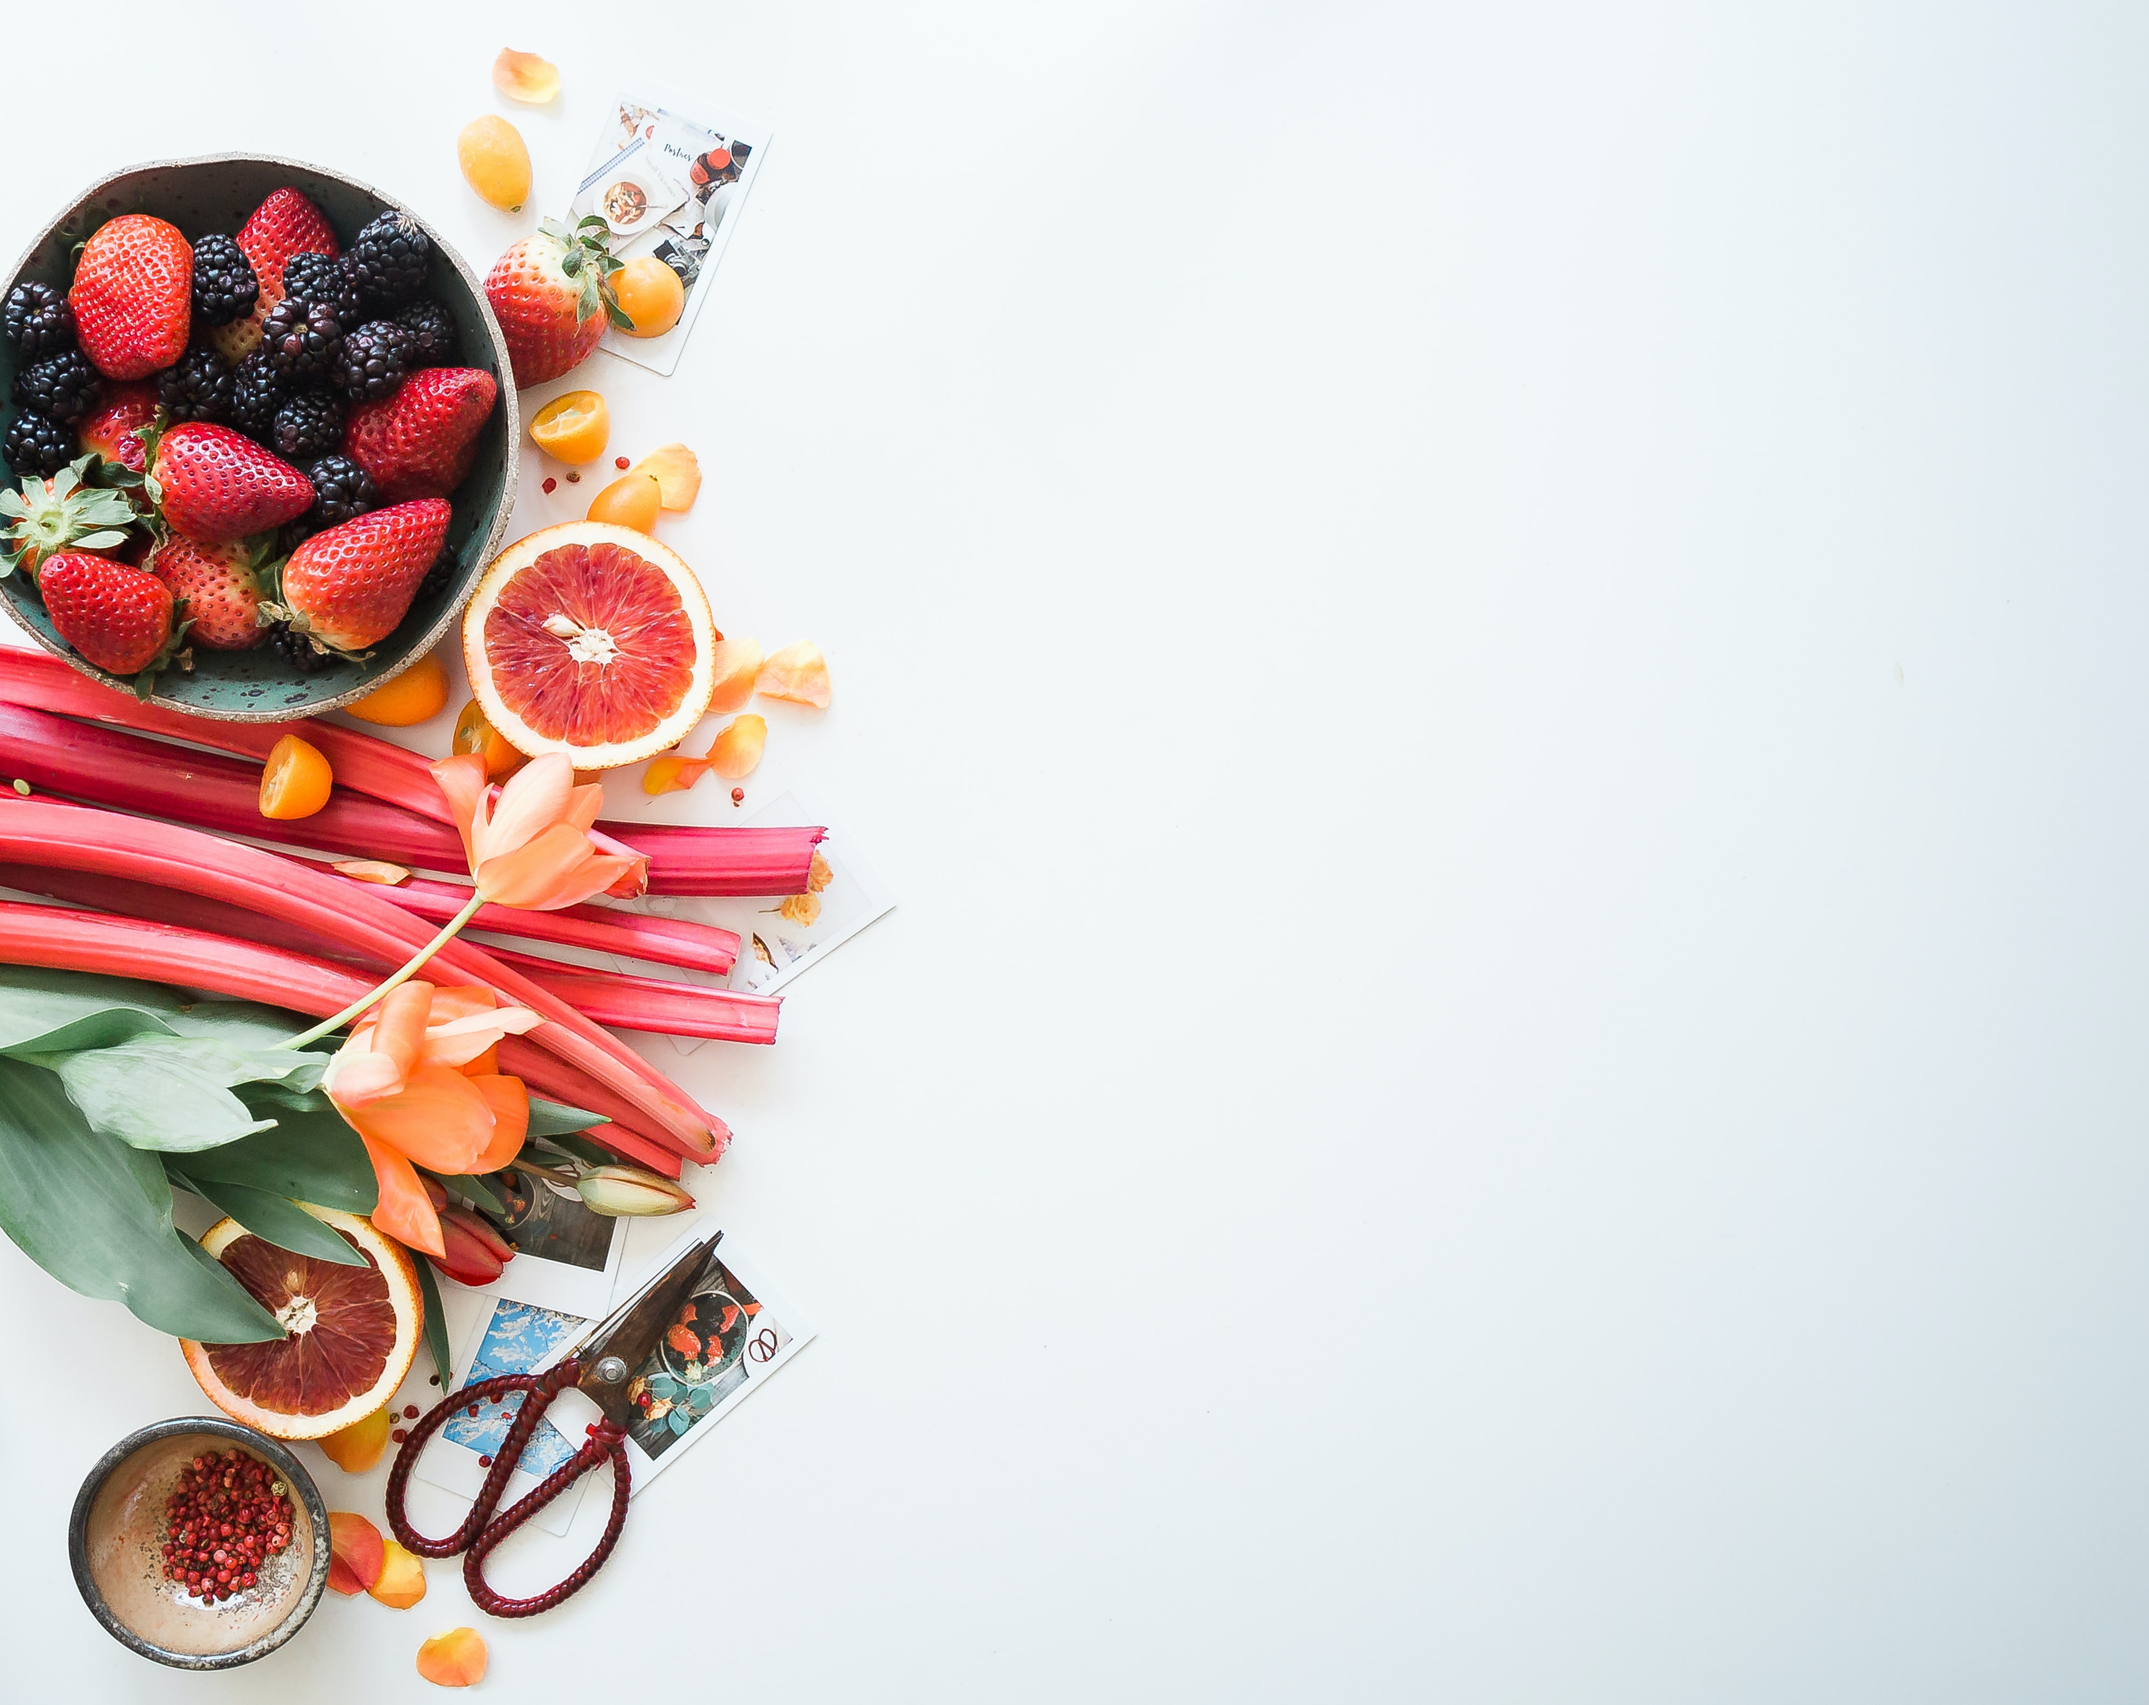
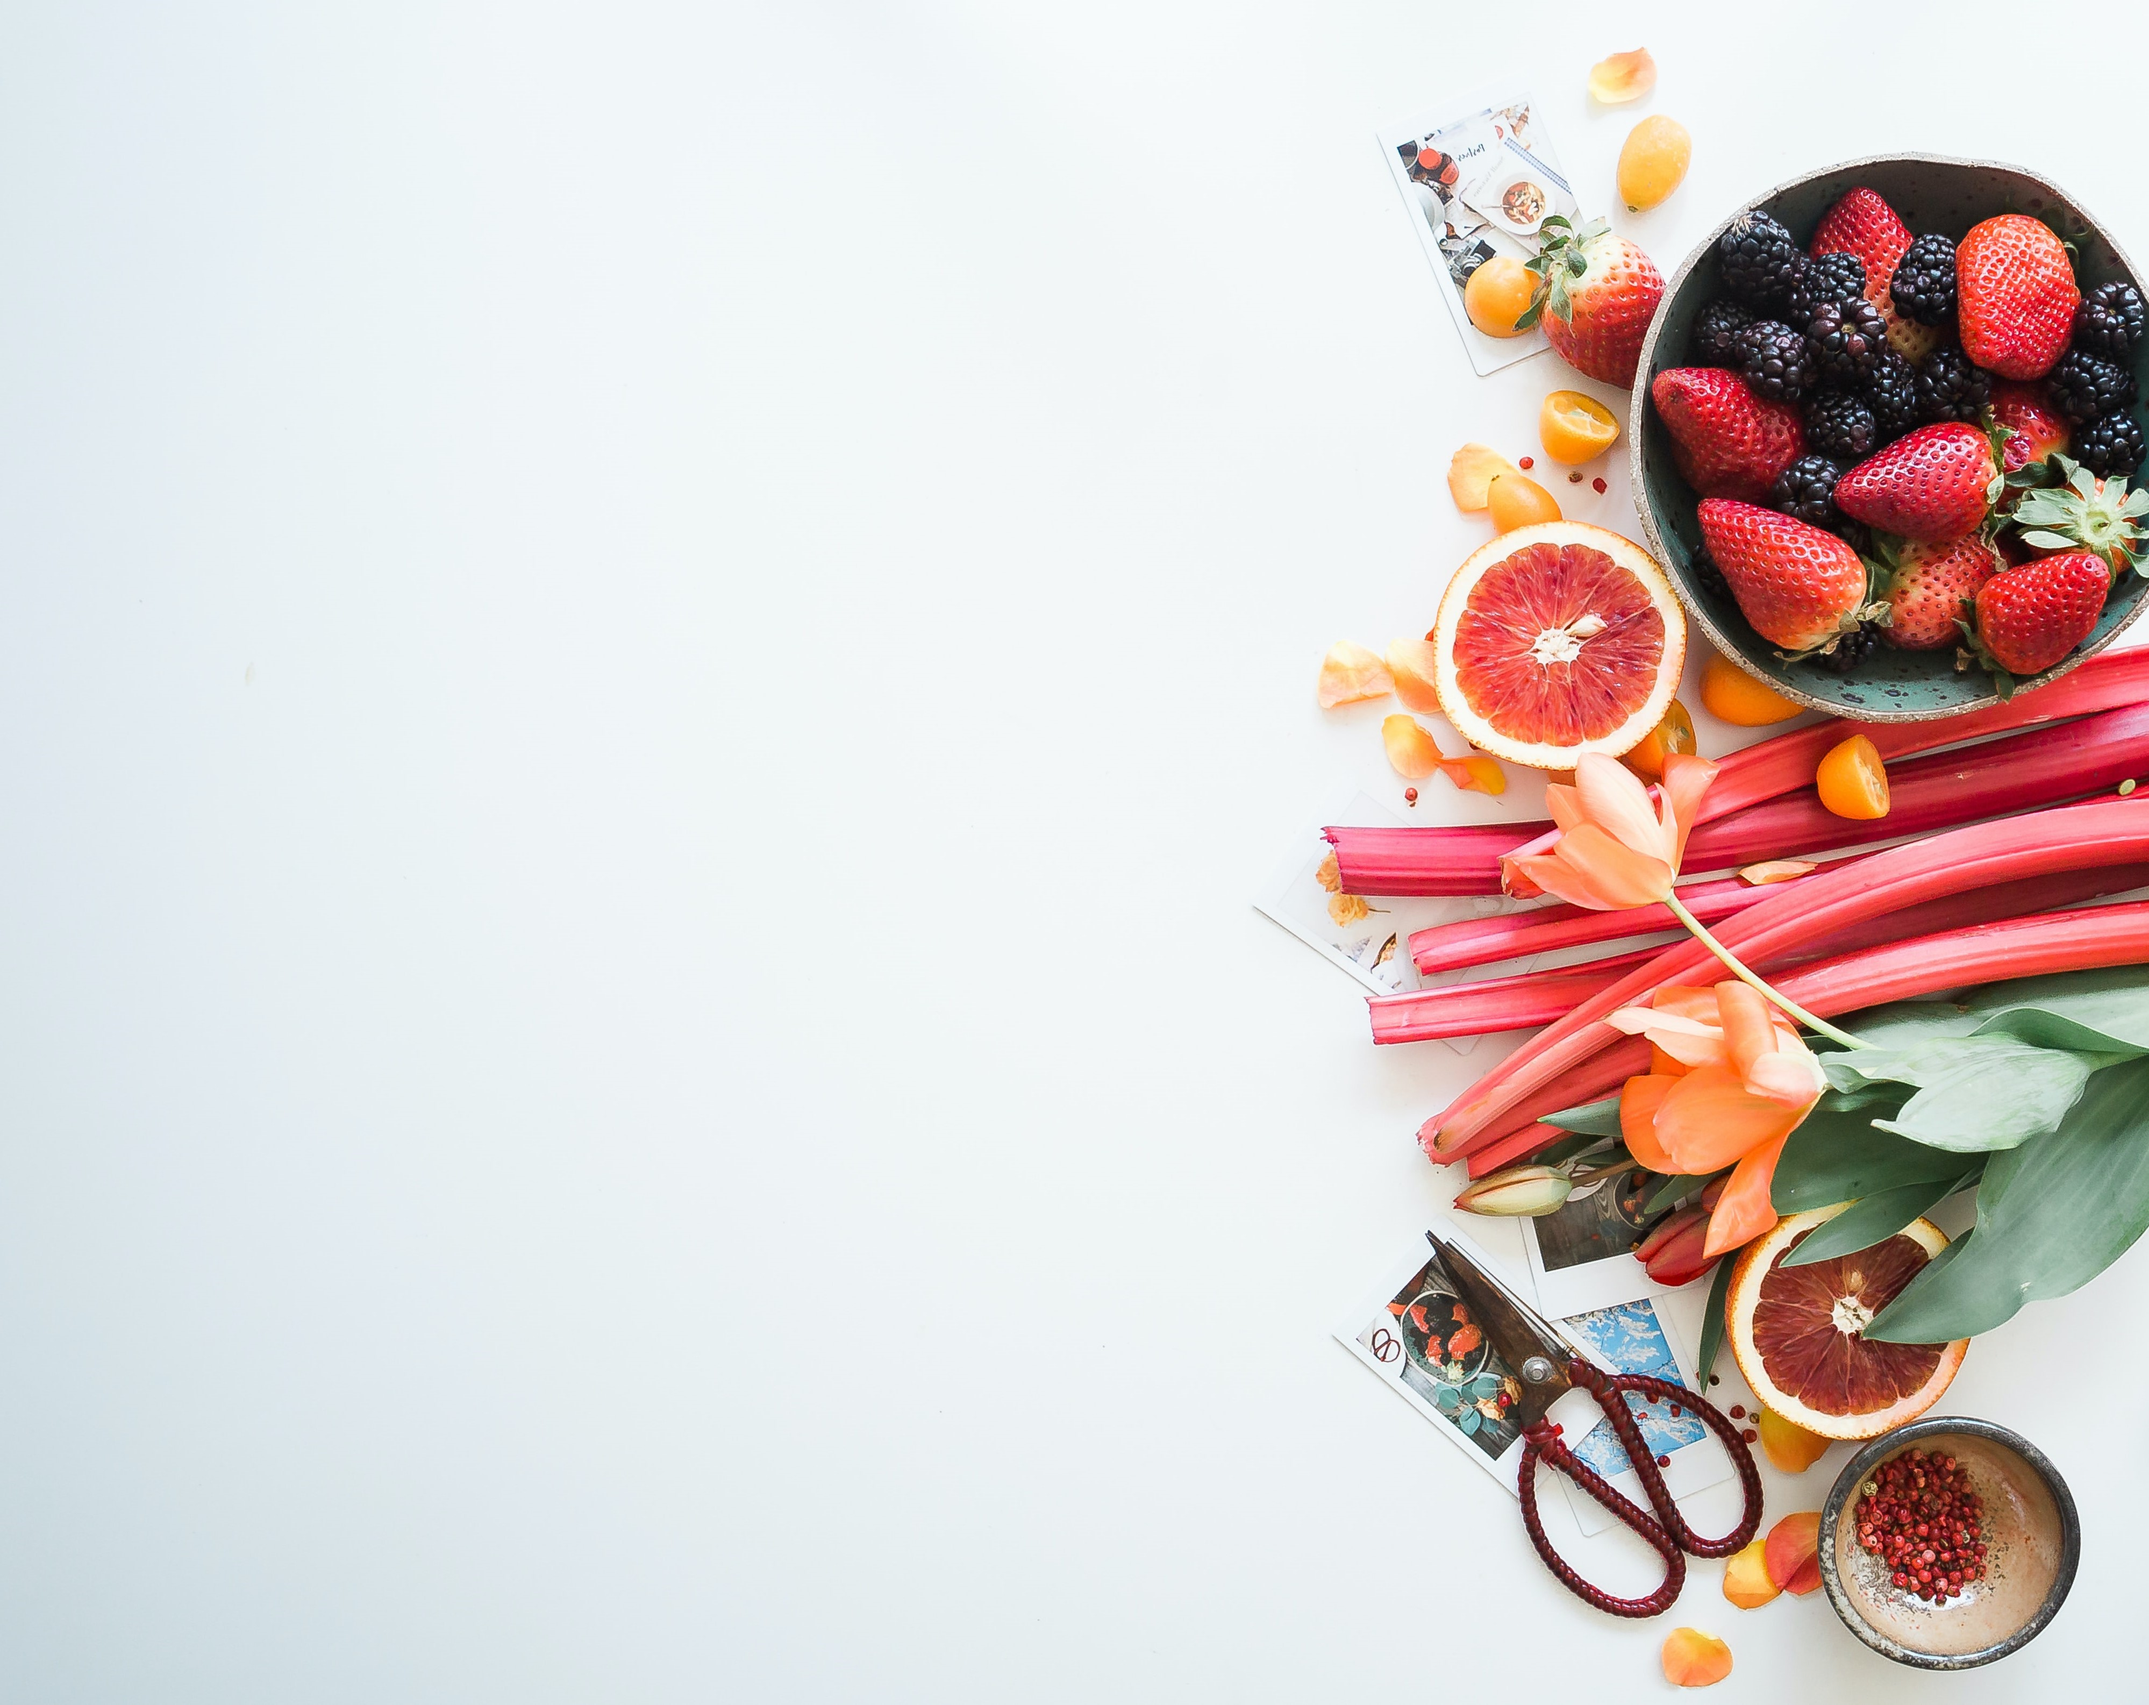
added showcase

diff --git a/index.html b/index.html
@@ -9,6 +9,12 @@
     <link href="https://fonts.googleapis.com/css2?family=Poppins&display=swap"
     rel="stylesheet
     <link rel="shortcut icon" href="img/logo.png" type="image/x-icon" />
+    <link rel="preconnect" href="https://fonts.googleapis.com" />
+    <link rel="preconnect" href="https://fonts.gstatic.com" crossorigin />
+    <link
+      href="https://fonts.googleapis.com/css2?family=Raleway:wght@100&display=swap"
+      rel="stylesheet"
+    />
     <link rel="stylesheet" href="css/style.css" />
 
     <title>Eat Healthy</title>
@@ -23,6 +29,18 @@
           <li><a href="#">GALLERY</a></li>
           <li><a href="#">CONTACT</a></li>
         </ul>
+      </div>
+    </section>
+    <section id="showcase">
+      <div class="showcase-content">
+        <h1>
+          DON'T <br />EAT LESS.
+          <br />
+          JUST
+          <br />
+          EAT REAL
+        </h1>
+        <a href="#" class="btn">ORDER HERE</a>
       </div>
     </section>
   </body>

diff --git a/css/style.css b/css/style.css
@@ -4,6 +4,8 @@ body {
   padding: 0;
 }
 
+/* MENU Design */
+
 #menu {
   display: flex;
   margin: 0 200px;
@@ -28,4 +30,34 @@ body {
   text-decoration: none;
   color: black;
   padding: 20px;
+}
+
+/* Showcase */
+
+#showcase .showcase-content {
+  background-image: url(/img/showcase.jpg);
+  background-repeat: no-repeat;
+  background-position: center;
+  background-size: cover;
+  width: 100%;
+  height: 70vh;
+}
+
+#showcase .showcase-content h1 {
+  font-family: "Raleway", sans-serif;
+  font-size: 80px;
+  margin: -5px;
+  padding-top: 80px;
+  padding-left: 80px;
+}
+
+#showcase .showcase-content .btn {
+  display: inline-block;
+  background-color: rgb(19, 146, 19);
+  color: white;
+  text-decoration: none;
+  margin-left: 80px;
+  margin-top: 30px;
+  padding: 10px 40px;
+  border-radius: 5px;
 }
